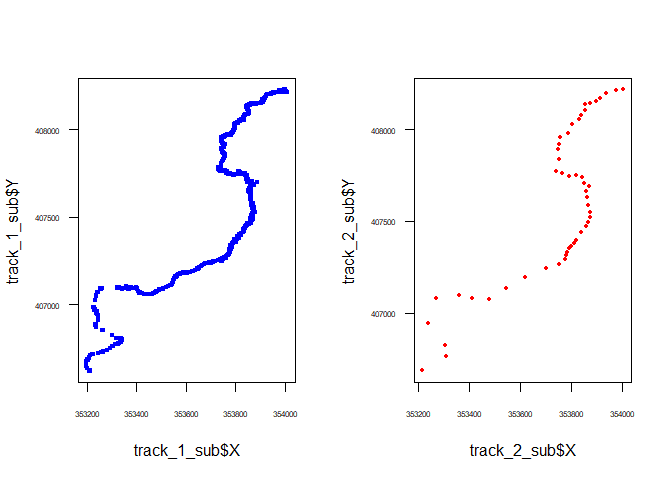
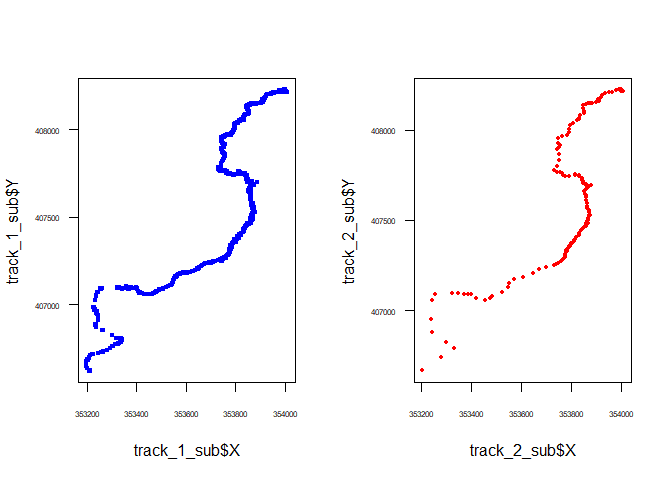
Update readme file using updated functions

diff --git a/README.md b/README.md
@@ -116,14 +116,7 @@ This figure below shows what the data look like when we plot them using
 tmap package. The data is used with permission from WCS Indonesia and
 the data has been published in journal of (In preparation)!!.
 
-<div class="figure" style="text-align: centre">
-
-<img src="man/figures/README-fig_1-1.png" alt="Survey tracks and several animal waypoints with elevation information" width="100%" />
-<p class="caption">
-Survey tracks and several animal waypoints with elevation information
-</p>
-
-</div>
+<img src="man/figures/README-fig_1-1.png" title="Survey tracks and several animal waypoints with elevation information" alt="Survey tracks and several animal waypoints with elevation information" width="100%" />
 
 So how the package works? Below is the list of functions currently
 developed to create detection matrix for a species.
@@ -206,7 +199,8 @@ speciesDM()
 Extract detection matrix from the species observation
 </td>
 <td style="text-align:left;">
-speciesDF, datetimeCol, Xcol, Ycol, speciesCol, species, extractVars
+speciesDF, SortID, Xcol, Ycol, whichCol, whichSp, samplingCov,
+samplingFun
 </td>
 </tr>
 </tbody>
@@ -232,6 +226,7 @@ function. See codes below on how to use it and how it produces the right
 format. We do the same for observation data.
 
 ``` r
+
 # Load library
 library(tidyverse)
 
@@ -285,22 +280,14 @@ with this, functions called **track2dm::meanPoint** or/and
 **track2dm::clearPoint** will be used to remove the bias either by take
 means from a number of subsequent points (*meanPoint*) or clear a
 certain number of points between points based on a predefined distance
-(*clearPoint*). For example we used **meanPoint** for track\_1 data.
+(*clearPoint*). For example we used **meanPoint** for track_1 data.
 
 ``` r
 # Take means from every 10 coordinates (nPoint = 10)
-track_2 <- track2dm::meanPoint(dataFrame = track_1, nPoint = 10)
+track_2 <- track2dm::meanPoint(dataFrame = track_1, datetimeCol = "DateTime", nPoint = 10, Xcol = "X", Ycol = "Y")
 ```
 
-<div class="figure" style="text-align: center">
-
-<img src="man/figures/README-fig_2-1.png" alt="Reducing number of points by taking the means for every 10 subsequent points (showing the first 500 points)" width="75%" />
-<p class="caption">
-Reducing number of points by taking the means for every 10 subsequent
-points (showing the first 500 points)
-</p>
-
-</div>
+<img src="man/figures/README-fig_2-1.png" title="Reducing number of points by taking the means for every 10 subsequent points (showing the first 500 points)" alt="Reducing number of points by taking the means for every 10 subsequent points (showing the first 500 points)" width="75%" style="display: block; margin: auto;" />
 
 Now we can combine the cleaned track and observation into one
 data-frame.
@@ -310,15 +297,15 @@ data-frame.
 transect <- dplyr::full_join(track_2, observation_1, by = c("DateTime", "X", "Y")) %>%
   dplyr::arrange(DateTime, X, Y)
 head(transect)
-#> # A tibble: 6 x 7
-#>      ID DateTime                  X       Y Type  Age   Observation
-#>   <dbl> <dttm>                <dbl>   <dbl> <chr> <chr> <chr>      
-#> 1     1 2015-09-10 06:27:25 353215. 406684. <NA>  <NA>  <NA>       
-#> 2     2 2015-09-10 06:28:17 353309. 406764. <NA>  <NA>  <NA>       
-#> 3     3 2015-09-10 06:29:36 353303. 406824. <NA>  <NA>  <NA>       
-#> 4     4 2015-09-10 06:30:50 353238. 406942. <NA>  <NA>  <NA>       
-#> 5     5 2015-09-10 06:32:09 353270. 407080. <NA>  <NA>  <NA>       
-#> 6     6 2015-09-10 07:09:04 353361. 407093. <NA>  <NA>  <NA>
+#> # A tibble: 6 × 6
+#>   DateTime                  X       Y Type  Age   Observation
+#>   <dttm>                <dbl>   <dbl> <chr> <chr> <chr>      
+#> 1 2015-09-10 06:27:25 353204. 406668. <NA>  <NA>  <NA>       
+#> 2 2015-09-10 06:28:04 353278. 406744. <NA>  <NA>  <NA>       
+#> 3 2015-09-10 06:29:02 353331. 406792. <NA>  <NA>  <NA>       
+#> 4 2015-09-10 06:29:59 353300. 406826. <NA>  <NA>  <NA>       
+#> 5 2015-09-10 06:30:12 353242. 406881. <NA>  <NA>  <NA>       
+#> 6 2015-09-10 06:31:04 353238. 406953. <NA>  <NA>  <NA>
 ```
 
 ## 2. Calculate distance in three dimention (X-Y-Z)
@@ -331,18 +318,19 @@ data first (as we did in the beginning).
 
 ``` r
 # Calculate 3D distance and matrix replicate
-transect_rep <- track2dm::dist3D(dataFrame = transect, elevData = elevation,  repLength = 1000)
+transect_rep <- track2dm::dist3D(dataFrame = transect, elevData = elevation,  repLength = 1000,
+                                 Xcol = "X", Ycol = "Y")
 head(transect_rep)
-#> # A tibble: 6 x 10
-#>      ID DateTime                  X       Y Type  Age   Observation     Z  Dist
-#>   <dbl> <dttm>                <dbl>   <dbl> <chr> <chr> <chr>       <dbl> <dbl>
-#> 1     1 2015-09-10 06:27:25 353215. 406684. <NA>  <NA>  <NA>          673    0 
-#> 2     2 2015-09-10 06:28:17 353309. 406764. <NA>  <NA>  <NA>          693  125.
-#> 3     3 2015-09-10 06:29:36 353303. 406824. <NA>  <NA>  <NA>          708  187.
-#> 4     4 2015-09-10 06:30:50 353238. 406942. <NA>  <NA>  <NA>          719  322.
-#> 5     5 2015-09-10 06:32:09 353270. 407080. <NA>  <NA>  <NA>          725  463.
-#> 6     6 2015-09-10 07:09:04 353361. 407093. <NA>  <NA>  <NA>          736  555.
-#> # ... with 1 more variable: Replicate <int>
+#> # A tibble: 6 × 9
+#>   DateTime                  X       Y Type  Age   Observat…¹     Z  Dist Repli…²
+#>   <dttm>                <dbl>   <dbl> <chr> <chr> <chr>      <dbl> <dbl>   <int>
+#> 1 2015-09-10 06:27:25 353204. 406668. <NA>  <NA>  <NA>         667    0        1
+#> 2 2015-09-10 06:28:04 353278. 406744. <NA>  <NA>  <NA>         692  109.       1
+#> 3 2015-09-10 06:29:02 353331. 406792. <NA>  <NA>  <NA>         701  181.       1
+#> 4 2015-09-10 06:29:59 353300. 406826. <NA>  <NA>  <NA>         708  227.       1
+#> 5 2015-09-10 06:30:12 353242. 406881. <NA>  <NA>  <NA>         705  307.       1
+#> 6 2015-09-10 06:31:04 353238. 406953. <NA>  <NA>  <NA>         719  381.       1
+#> # … with abbreviated variable names ¹Observation, ²Replicate
 ```
 
 ## 3. Extract detection matrix for a species
@@ -350,49 +338,106 @@ head(transect_rep)
 Finally, we can extract detection matrix from selected species. As
 default, **track2dm::speciesDM** only compute the detection matrix. But
 if we also want to compute the survey covariates (the variables for each
-replicate), we need to specify that in **extraVars** argument, see
-below.
+replicate or sampling covariates), we need to specify that in
+**samplingCov** argument and define a function/s on how to extract the
+information from each replicate using **samplingFun**. A *modal* is a
+predefinned function from track2dm package which is used to compute the
+mode or the most common character value in each replicate.
 
 ``` r
 # Compute only detection matrix
-transect_dm_1 <- track2dm::speciesDM(speciesDF = transect_rep, datetimeCol = "DateTime", 
-                                   Xcol = "X", Ycol = "Y", speciesCol = "Observation", 
-                                   species = "animal signs")
+transect_dm_1 <- track2dm::speciesDM(speciesDF = transect_rep, sortID = "DateTime",
+                                     Xcol = "X", Ycol = "Y", whichCol  = "Observation",
+                                     whichSp = "animal signs", samplingCov = FALSE,
+                                     samplingFun = FALSE)
 transect_dm_1
-#> # A tibble: 36 x 5
-#>    Replicate DateTime       X       Y Presence
-#>        <int> <chr>      <dbl>   <dbl> <chr>   
-#>  1         1 DateTime 353215. 406684. 0       
-#>  2         2 DateTime 353751. 407263. 0       
-#>  3         3 DateTime 353802. 408026. 0       
-#>  4         4 DateTime 354691. 408109. 0       
-#>  5         5 DateTime 355565. 407989. 1       
-#>  6         6 DateTime 356211. 408361. 0       
-#>  7         7 DateTime 356966. 408947. 1       
-#>  8         8 DateTime 357584. 409366. 0       
-#>  9         9 DateTime 358202. 409888. 0       
-#> 10        10 DateTime 359118. 409932. 0       
-#> # ... with 26 more rows
+#>    Replicate Presence        X        Y  Observation samplingCov
+#> 1          1        0 353203.9 406667.9           NA        None
+#> 2          2        0 353672.5 407231.3           NA        None
+#> 3          3        0 353732.8 407778.2           NA        None
+#> 4          4        0 354244.9 408234.0           NA        None
+#> 5          5        0 355050.7 408086.0           NA        None
+#> 6          6        1 355976.0 408028.0 animal signs        None
+#> 7          7        0 356298.1 408527.5           NA        None
+#> 8          8        1 357296.0 409119.0 animal signs        None
+#> 9          9        0 357629.8 409452.0           NA        None
+#> 10        10        0 358226.2 409934.4           NA        None
+#> 11        11        0 359085.0 409940.9           NA        None
+#> 12        12        0 359779.7 409966.7           NA        None
+#> 13        13        1 359839.0 409959.0 animal signs        None
+#> 14        14        0 360366.6 410427.0           NA        None
+#> 15        15        0 360759.6 411202.6           NA        None
+#> 16        16        0 360825.6 411928.7           NA        None
+#> 17        17        0 361507.4 412270.4           NA        None
+#> 18        19        1 360633.0 410947.0 animal signs        None
+#> 19        20        0 361547.5 412398.9           NA        None
+#> 20        21        0 361503.6 412525.0           NA        None
+#> 21        22        0 361373.7 413363.3           NA        None
+#> 22        24        1 361449.0 412628.0 animal signs        None
+#> 23        25        1 361217.0 413758.0 animal signs        None
+#> 24        26        0 360682.7 413856.5           NA        None
+#> 25        27        0 359856.5 414031.5           NA        None
+#> 26        28        0 359048.3 414345.2           NA        None
+#> 27        29        1 360089.0 413942.0 animal signs        None
+#> 28        30        1 359349.0 414234.0 animal signs        None
+#> 29        31        0 358706.7 414575.5           NA        None
+#> 30        32        0 357783.3 414693.3           NA        None
+#> 31        33        0 357095.5 415203.3           NA        None
+#> 32        34        0 356896.4 415842.0           NA        None
+#> 33        36        1 358844.0 414466.0 animal signs        None
+#> 34        37        1 357480.0 414874.0 animal signs        None
+#> 35        38        1 357054.0 415417.0 animal signs        None
+#> 36        39        0 356871.8 415803.7           NA        None
+#> 37        40        0 356356.3 415749.7           NA        None
+#> 38        41        0 356146.6 416308.5           NA        None
+#> 39        42        0 355428.2 416327.9           NA        None
 
 # Compute detection matrix along with survey covariates for each replicate
-transect_dm_2 <- track2dm::speciesDM(speciesDF = transect_rep, datetimeCol = "DateTime", 
-                                   Xcol = "X", Ycol = "Y", speciesCol = "Observation", 
-                                   species = "animal signs", extractVars = c("Age", "Type"))
+transect_dm_2 <- track2dm::speciesDM(speciesDF = transect_rep, sortID = "DateTime",
+                                     Xcol = "X", Ycol = "Y", whichCol  = "Observation",
+                                     whichSp = "animal signs", samplingCov = c("Age", "Type"),
+                                     samplingFun = c(track2dm::modal, track2dm::modal))
 transect_dm_2
-#> # A tibble: 36 x 7
-#>    Replicate DateTime       X       Y Presence Age   Type   
-#>        <int> <chr>      <dbl>   <dbl> <chr>    <chr> <chr>  
-#>  1         1 DateTime 353215. 406684. 0        <NA>  <NA>   
-#>  2         2 DateTime 353751. 407263. 0        <NA>  <NA>   
-#>  3         3 DateTime 353802. 408026. 0        <NA>  <NA>   
-#>  4         4 DateTime 354691. 408109. 0        <NA>  <NA>   
-#>  5         5 DateTime 355565. 407989. 1        New   Scratch
-#>  6         6 DateTime 356211. 408361. 0        <NA>  <NA>   
-#>  7         7 DateTime 356966. 408947. 1        Old   Scat   
-#>  8         8 DateTime 357584. 409366. 0        <NA>  <NA>   
-#>  9         9 DateTime 358202. 409888. 0        <NA>  <NA>   
-#> 10        10 DateTime 359118. 409932. 0        <NA>  <NA>   
-#> # ... with 26 more rows
+#>    Replicate Presence        X        Y  Observation Age Type
+#> 1          1        0 353203.9 406667.9           NA  NA   NA
+#> 2          2        0 353672.5 407231.3           NA  NA   NA
+#> 3          3        0 353732.8 407778.2           NA  NA   NA
+#> 4          4        0 354244.9 408234.0           NA  NA   NA
+#> 5          5        0 355050.7 408086.0           NA  NA   NA
+#> 6          6        1 355976.0 408028.0 animal signs  NA   NA
+#> 7          7        0 356298.1 408527.5           NA  NA   NA
+#> 8          8        1 357296.0 409119.0 animal signs  NA   NA
+#> 9          9        0 357629.8 409452.0           NA  NA   NA
+#> 10        10        0 358226.2 409934.4           NA  NA   NA
+#> 11        11        0 359085.0 409940.9           NA  NA   NA
+#> 12        12        0 359779.7 409966.7           NA  NA   NA
+#> 13        13        1 359839.0 409959.0 animal signs  NA   NA
+#> 14        14        0 360366.6 410427.0           NA  NA   NA
+#> 15        15        0 360759.6 411202.6           NA  NA   NA
+#> 16        16        0 360825.6 411928.7           NA  NA   NA
+#> 17        17        0 361507.4 412270.4           NA  NA   NA
+#> 18        19        1 360633.0 410947.0 animal signs New Scat
+#> 19        20        0 361547.5 412398.9           NA  NA   NA
+#> 20        21        0 361503.6 412525.0           NA  NA   NA
+#> 21        22        0 361373.7 413363.3           NA  NA   NA
+#> 22        24        1 361449.0 412628.0 animal signs New Scat
+#> 23        25        1 361217.0 413758.0 animal signs  NA   NA
+#> 24        26        0 360682.7 413856.5           NA  NA   NA
+#> 25        27        0 359856.5 414031.5           NA  NA   NA
+#> 26        28        0 359048.3 414345.2           NA  NA   NA
+#> 27        29        1 360089.0 413942.0 animal signs New Scat
+#> 28        30        1 359349.0 414234.0 animal signs  NA   NA
+#> 29        31        0 358706.7 414575.5           NA  NA   NA
+#> 30        32        0 357783.3 414693.3           NA  NA   NA
+#> 31        33        0 357095.5 415203.3           NA  NA   NA
+#> 32        34        0 356896.4 415842.0           NA  NA   NA
+#> 33        36        1 358844.0 414466.0 animal signs Old Scat
+#> 34        37        1 357480.0 414874.0 animal signs New Scat
+#> 35        38        1 357054.0 415417.0 animal signs New Scat
+#> 36        39        0 356871.8 415803.7           NA  NA   NA
+#> 37        40        0 356356.3 415749.7           NA  NA   NA
+#> 38        41        0 356146.6 416308.5           NA  NA   NA
+#> 39        42        0 355428.2 416327.9           NA  NA   NA
 ```
 
 What we really need is the matrix consists of species
@@ -412,11 +457,11 @@ spCov <- transect_dm_2 %>% dplyr::select(Age, Type) %>%
 # Show the first five elements/replicates
 spDM[1:5]
 #>          V1 V2 V3 V4 V5
-#> Presence  0  0  0  0  1
+#> Presence  0  0  0  0  0
 spCov[1:5]
-#>        V1   V2   V3   V4      V5
-#> Age  <NA> <NA> <NA> <NA>     New
-#> Type <NA> <NA> <NA> <NA> Scratch
+#>      V1 V2 V3 V4 V5
+#> Age  NA NA NA NA NA
+#> Type NA NA NA NA NA
 ```
 
 This is the final result where the presence absence of species is
